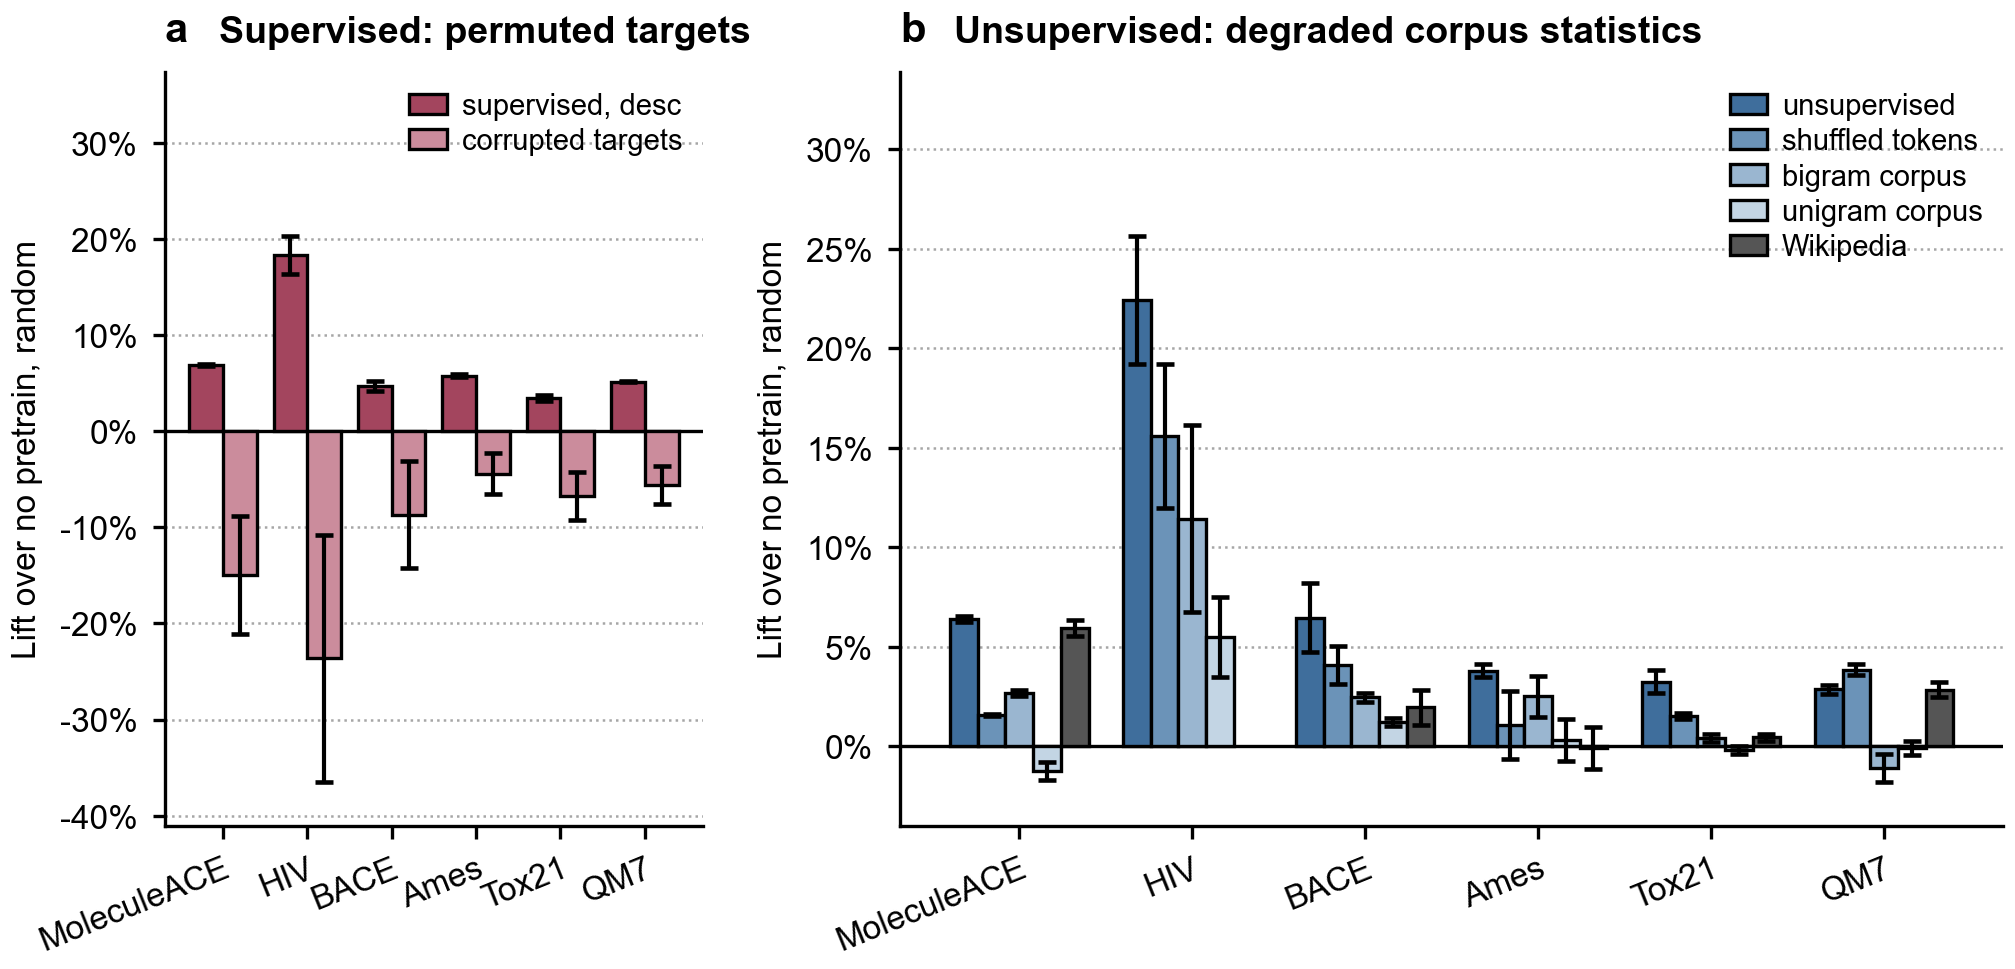
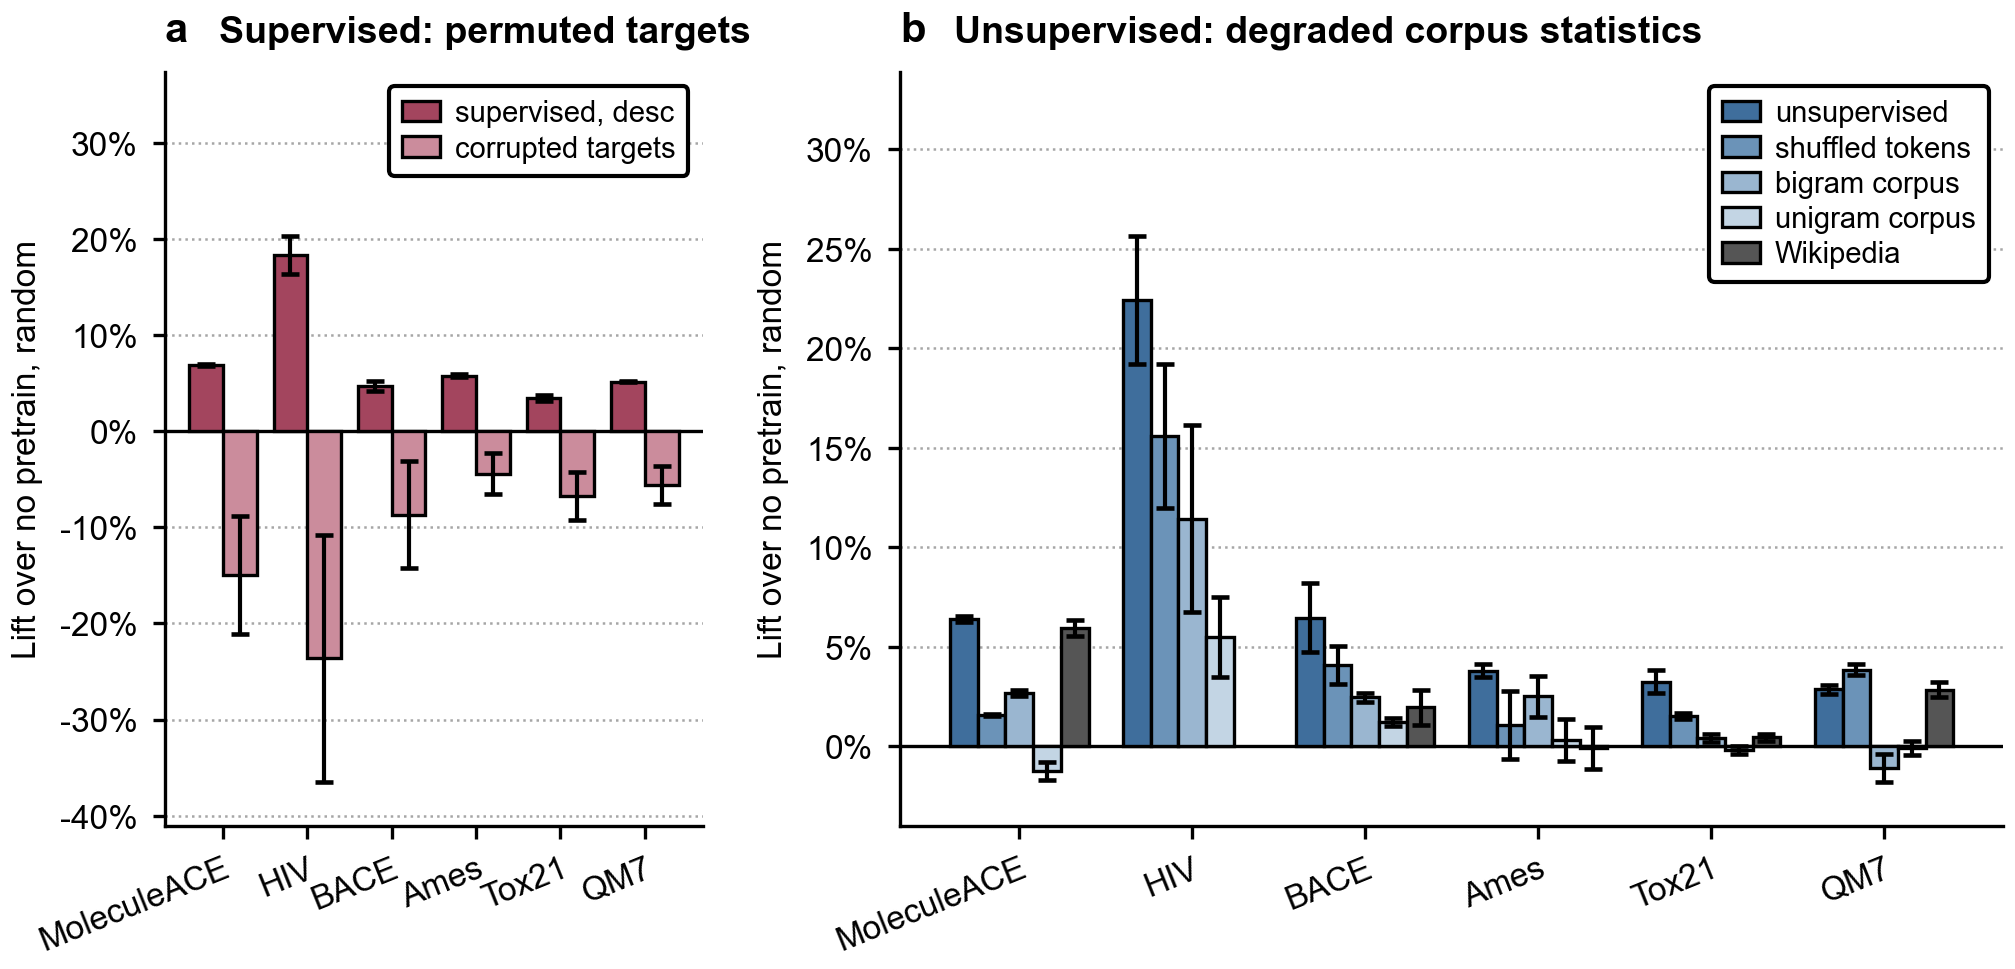
one legend frame for the set, defined once in style.py
Leif 2026-08-23: fig_E should carry the boxed legend that fig_C+D panel b
already had.

fig_C2 had frameon=True with an opaque white face and an ink edge; fig_E had
frameon=False. Both legends sit ON the data, so the same object was
following two conventions across the paper -- and the unboxed one had bars
showing through behind its labels.

Rather than copy the four kwargs into fig_E, LEGEND_BOX now lives in
figures/style.py and BOTH import it. fig_C2's local literal is gone, so
there is one definition rather than two that agree today. Verified no figure
still hand-writes a legend frame.

fig_E's borderpad raised to match: a frame with zero border padding puts the
box edge against the text.

Changed region(s): [[0.8308, 0.0619, 1.0, 0.3096], [0.1846, 0.0619, 0.3385, 0.1858]]

diff --git a/figures/fig_E.py b/figures/fig_E.py
@@ -57,7 +57,7 @@ import matplotlib.pyplot as plt
 import matplotlib.ticker as ticker
 from matplotlib.transforms import ScaledTranslation
 
-from figures.style import STYLE, FS, save, check_font
+from figures.style import STYLE, FS, save, check_font, LEGEND_BOX
 from figures.arms import SHADES, ARMS
 
 check_font()
@@ -131,12 +131,12 @@ def draw(fig, ax, d, series, tag, subtitle, ylim, compact=False):
     if compact:
         # INSIDE the axes, two columns, with extra headroom bought by the caller's ylim -- a legend
         # below the axes collided with the assembled figure's own bottom legend.
-        ax.legend(loc="upper left", ncol=2, frameon=False, fontsize=FS["legend"] - 1,
-                  handletextpad=0.4, columnspacing=0.8, borderpad=0.0, labelspacing=0.2,
-                  handlelength=1.2)
+        ax.legend(loc="upper left", ncol=2, fontsize=FS["legend"] - 1,
+                  handletextpad=0.4, columnspacing=0.8, borderpad=0.30, labelspacing=0.2,
+                  handlelength=1.2, **LEGEND_BOX)
     else:
-        ax.legend(loc="upper right", frameon=False, fontsize=FS["legend"],
-                  ncol=1, handletextpad=0.5, borderpad=0.2, labelspacing=0.25)
+        ax.legend(loc="upper right", fontsize=FS["legend"],
+                  ncol=1, handletextpad=0.5, borderpad=0.45, labelspacing=0.25, **LEGEND_BOX)
 
 
 def main():

diff --git a/figures/fig_C2.py b/figures/fig_C2.py
@@ -92,7 +92,7 @@ from matplotlib.lines import Line2D
 from figures.sixpanel import (suite_run_mean, suite_wave_mean, canonical_value,
                               canonical_lift, crosswave_safe, report_crosswave,
                               joint_molnet_subdirs)
-from figures.style import STYLE, FS, save, title, check_font
+from figures.style import STYLE, FS, save, title, check_font, LEGEND_BOX
 from figures.arms import ARMS, SHADES, TASK_COLORS, LIFT_YLABEL
 
 check_font()
@@ -290,8 +290,8 @@ def draw(ax, data, tag=None, compact=False):
     loc = empty[0]
     # BOXED and untitled (user 2026-08-19): on the same axes as the scatter an unframed legend's
     # markers read as data points. This is the only boxed legend in the set, for that reason.
-    kw = dict(handles=task_handles, loc=loc, frameon=True, framealpha=1.0,
-              edgecolor=STYLE["ink"], facecolor="white")
+    # the shared frame, not a local copy -- see figures.style.LEGEND_BOX
+    kw = dict(handles=task_handles, loc=loc, **LEGEND_BOX)
     if compact:
         ax.legend(ncol=3, fontsize=FS["legend"] - 0.5, handletextpad=0.25, borderaxespad=0.35,
                   borderpad=0.3, labelspacing=0.22, columnspacing=0.6, handlelength=0.9, **kw)

diff --git a/figures/style.py b/figures/style.py
@@ -86,6 +86,14 @@ def _pdf_width_in(path):
     return (float(m.group(3)) - float(m.group(1))) / 72 if m else None
 
 
+# ONE LEGEND FRAME FOR THE WHOLE SET. A legend that sits ON the data needs an opaque box or the
+# points behind it show through and the labels stop being readable; fig_C2 had one and fig_E did
+# not, so the same object looked like two different conventions across the paper. Defined here and
+# imported rather than restated per figure, because two hand-written copies of "the same" frame is
+# how they drift.
+LEGEND_BOX = dict(frameon=True, framealpha=1.0, edgecolor=STYLE["ink"], facecolor="white")
+
+
 def row_ncol(handles, rows=1):
     """Column count that lays `handles` out in ONE ROW. The paper's default (user 2026-08-20:
     "always have this as the default").
